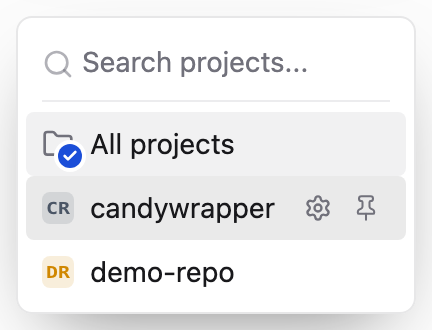
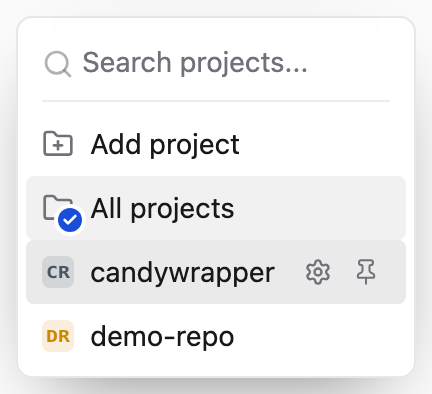
feat(sidebar): folder button picks or adds a project, New starts in the scoped project
5258 turns the project filter into a folder button labelled "Projects" or
"Projects: <names>" whose list leads with Add project, and drops the
header's own Add project button (#33057, Sidebar.tsx:851-858, :3118-3171,
:3232-3242, SidebarThreadHeader.tsx:100). Redesign keeps its Add project
button and filter glyph by the Threads label.

The header New button starts the thread in a project the sidebar is scoped
to, on the viewed thread's copy when it belongs to the group; Shift and
the Boring sidebar skip it (#35185, resolveScopedNewThreadProjectRef,
Sidebar.logic.ts:829-851, Sidebar.tsx:3044-3077). A grouped project's
folder New starts on the viewed thread's machine (#41554,
buildSidebarProjectPickerEntries, sidebarProjectGrouping.ts:220-252).

sidebar-search scope.all and the three sidebar-project-filter references
are regenerated from markup with the Add project row.

diff --git a/Packages/CandyKit/Sources/Features/Sidebar/SidebarView.swift b/Packages/CandyKit/Sources/Features/Sidebar/SidebarView.swift
@@ -89,7 +89,9 @@ public final class SidebarContentView: DSView {
     private let environmentPill = BadgeView("Nightly", variant: .secondary, size: .sm)
     let brand = SidebarBrandView()
     let search = SidebarSearchFieldView()
-    let filterButton = SidebarContentView.headerButton(.listFilter, "Filter threads by project")
+    /// The project scope trigger: T3 5258's folder button "Projects" (Sidebar.tsx:3136-3171, #33057). Redesign keeps
+    /// its filter glyph beside its own Add project button.
+    let filterButton = SidebarContentView.headerButton(.folder, "Projects")
     let addProjectButton = SidebarContentView.headerButton(.folderPlus, "Add project")
     let newThreadButton = SidebarContentView.headerButton(.squarePen, "New thread")
     let settingsButton = SidebarContentView.footerButton(.settings, "Settings")
@@ -282,7 +284,9 @@ public final class SidebarContentView: DSView {
         list.onToggleShelf = { [weak self] in self?.toggleShelf($0) }
         list.onNewProjectThread = { [weak self] key in
             guard let self, let group = SidebarListBuilder.projectScopeGroups(snapshot: self.snapshot).first(where: { $0.key == key }) else { return }
-            self.actions.newThreadInProject(group.representative)
+            // #41554: a grouped project starts on the viewed thread's machine (Sidebar.tsx:1269-1280 at 5258).
+            let viewed = self.state.activeThreadId.flatMap { id in self.snapshot?.threads.first { $0.id == id }?.projectId }
+            self.actions.newThreadInProject(SidebarModel.pickerTarget(group, preferred: viewed))
         }
         // Sidebar.tsx:1194-1221 (3814).
         list.onProjectMenu = { [weak self] key, event, view in
@@ -906,16 +910,21 @@ public final class SidebarContentView: DSView {
             preferredEnvironmentId: state.environments.primaryId))
     }
 
+    /// The scope New starts in: none with the Boring sidebar, whose header button always opens the picker
+    /// (Sidebar.tsx:3045-3050 at 5258).
+    public var newThreadScopedGroups: [SidebarModel.ProjectGroup] { state.boringSidebarEnabled ? [] : scopedGroups }
+
     private var scopedGroup: SidebarModel.ProjectGroup? { scopedGroups.count == 1 ? scopedGroups.first : nil }
 
     func updateScopeTrigger() {
         let group = scopedGroup
         filterMonogram.isHidden = group == nil
         if let group { filterMonogram.projectTitle = group.representative.title; filterMonogram.source = ProjectIconSource(group.representative) }
-        if (filterButton.icon == nil) != (group != nil) { filterButton.icon = group == nil ? .listFilter : nil }
+        let icon: IconName? = group == nil ? scopeIcon : nil
+        if filterButton.icon != icon { filterButton.icon = icon }
         let selected = scopedGroups
         filterButton.isActive = !selected.isEmpty
-        let label = selected.isEmpty ? "Filter threads by project" : "Filter threads by project: " + selected.map(\.label).joined(separator: ", ")
+        let label = selected.isEmpty ? "Projects" : "Projects: " + selected.map(\.label).joined(separator: ", ")
         filterButton.setAccessibilityLabel(label)
         filterButton.setTooltip(label)
         let hasProjects = !(snapshot?.projects.isEmpty ?? true)
@@ -939,6 +948,10 @@ public final class SidebarContentView: DSView {
         }
         view.onSelect = { [weak self] key in
             if let key { self?.toggleProjectScope(key) } else { self?.setProjectScopes([]) }
+        }
+        view.onAddProject = { [weak self] in
+            self?.closeScopePopup()
+            self?.actions.addProject()
         }
         view.onSettings = { [weak self] key in
             self?.closeScopePopup()
@@ -1090,8 +1103,13 @@ public final class SidebarContentView: DSView {
         super.viewDidChangeEffectiveAppearance()
         applyStage() // Dither hides the artwork
         syncDither()
+        updateScopeTrigger()
         needsLayout = true
     }
+
+    /// Redesign's list controls sit by the "Threads" label: Add project and a filter glyph. The default themes follow
+    /// 5258, where the folder button's menu holds Add project.
+    private var scopeIcon: IconName { ThemeRuntime.isDither(dark: effectiveAppearance.isDark) ? .listFilter : .folder }
 
     // MARK: Layout
 
@@ -1131,7 +1149,8 @@ public final class SidebarContentView: DSView {
         let hasProjects = !(snapshot?.projects.isEmpty ?? true)
         let capyHeader = ThemeRuntime.isDither(dark: effectiveAppearance.isDark)
         for b in [newThreadButton, addProjectButton, filterButton] {
-            b.isHidden = b !== newThreadButton && !hasProjects || capyHeader && b === newThreadButton
+            // 5258 moves Add project into the folder button's menu (SidebarThreadHeader.tsx:100, #33057); Redesign keeps it.
+            b.isHidden = b !== newThreadButton && !hasProjects || capyHeader && b === newThreadButton || !capyHeader && b === addProjectButton
             if b.isHidden || capyHeader { continue }
             b.frame = NSRect(x: right - 28, y: rowY + 2, width: 28, height: 28)
             right -= 28

diff --git a/Packages/CandyKit/Tests/FeaturesTests/SidebarProjectFilterTests.swift b/Packages/CandyKit/Tests/FeaturesTests/SidebarProjectFilterTests.swift
@@ -27,9 +27,53 @@ struct SidebarProjectFilterTests {
         #expect(groups.first { $0.label == "old-repo" }?.archived == true)
         #expect(ProjectOrganization.pickable(groups).map(\.label) == ["candywrapper", "demo-repo"])
         let view = SidebarProjectScopeView(groups: groups, selectedKey: nil, minimumWidth: 200, selectedKeys: groups.filter { $0.label == "old-repo" }.map(\.key))
-        #expect(view.items.map(\.label) == ["All projects", "candywrapper", "demo-repo"])
+        #expect(view.items.map(\.label) == ["Add project", "All projects", "candywrapper", "demo-repo"])
         // An archived project's scope reads as all projects.
         #expect(view.selectedKeys.isEmpty)
+    }
+
+    /// 5258 #33057: the folder button's list leads with "Add project", which opens the add flow and never scopes;
+    /// a search drops it with "All projects" (Sidebar.logic.ts:1186-1201, Sidebar.tsx:3118-3120).
+    @Test func addProjectLeadsTheScopeList() {
+        let groups = SidebarListBuilder.projectScopeGroups(snapshot: Self.snapshot())
+        let view = SidebarProjectScopeView(groups: groups, selectedKey: nil, minimumWidth: 200)
+        #expect(view.items[0].isAddProject && !view.items[1].isAddProject)
+        var added = 0, selected: [String?] = []
+        view.onAddProject = { added += 1 }
+        view.onSelect = { selected.append($0) }
+        view.highlighted = 0
+        #expect(view.handleKey(.enter))
+        #expect(added == 1 && selected.isEmpty)
+        view.setQuery("demo")
+        #expect(view.shown.map(\.label) == ["demo-repo"])
+    }
+
+    /// Sidebar.tsx:3136-3171 at 5258: the scope trigger is a folder labelled "Projects", and Add project leaves the
+    /// header for the folder's menu. Redesign keeps its own Add project button.
+    @Test func headerShowsTheProjectsFolder() {
+        let content = SidebarContentView(frame: NSRect(x: 0, y: 0, width: 256, height: 600))
+        content.setSnapshot(Self.snapshot(), animated: false)
+        content.layoutSubtreeIfNeeded()
+        #expect(content.filterButton.icon == .folder && content.filterButton.accessibilityLabel() == "Projects")
+        #expect(content.addProjectButton.isHidden && !content.filterButton.isHidden)
+        var state = content.state
+        state.projectScopeKeys = [SidebarListBuilder.projectScopeGroups(snapshot: Self.snapshot()).first { $0.label == "demo-repo" }!.key]
+        content.state = state
+        content.updateScopeTrigger()
+        #expect(content.filterButton.accessibilityLabel() == "Projects: demo-repo")
+    }
+
+    /// `resolveScopedNewThreadProjectRef` (Sidebar.logic.ts:829-851 at 5258, #35185).
+    @Test func newStartsInTheScopedProject() {
+        let snapshot = Self.snapshot()
+        let groups = SidebarListBuilder.projectScopeGroups(snapshot: snapshot)
+        let demo = groups.first { $0.label == "demo-repo" }!
+        #expect(SidebarModel.scopedNewThreadProject(shift: false, scopedGroups: [demo], viewedProjectId: nil, projects: snapshot.projects)?.id == "p1")
+        #expect(SidebarModel.scopedNewThreadProject(shift: true, scopedGroups: [demo], viewedProjectId: nil, projects: snapshot.projects) == nil)
+        #expect(SidebarModel.scopedNewThreadProject(shift: false, scopedGroups: groups, viewedProjectId: nil, projects: snapshot.projects) == nil)
+        #expect(SidebarModel.scopedNewThreadProject(shift: false, scopedGroups: [], viewedProjectId: nil, projects: snapshot.projects) == nil)
+        // A viewed thread outside the group leaves the group's own project.
+        #expect(SidebarModel.scopedNewThreadProject(shift: false, scopedGroups: [demo], viewedProjectId: "p2", projects: snapshot.projects)?.id == "p1")
     }
 
     @Test func updatePayloadMatchesProjectUpdate() {
@@ -61,9 +105,9 @@ struct SidebarProjectFilterTests {
         var writes: [(String, Bool)] = []
         view.onTogglePin = { writes.append(($0, $1)) }
         let before = view.items.map(\.label)
-        let key = view.items[2].key!
+        let key = view.items[3].key!
         view.togglePin(key)
-        #expect(view.items.map(\.label) == before && view.items[2].pinned)
+        #expect(view.items.map(\.label) == before && view.items[3].pinned)
         #expect(writes.count == 1 && writes[0].0 == key && writes[0].1)
     }
 
@@ -93,8 +137,8 @@ struct SidebarProjectFilterTests {
         let view = SidebarProjectScopeView(groups: groups, selectedKey: nil, minimumWidth: 200)
         var writes = 0
         view.onTogglePin = { _, _ in writes += 1 }
-        view.togglePin(view.items[1].key!)
-        #expect(writes == 0 && !view.items[1].pinned)
+        view.togglePin(view.items[2].key!)
+        #expect(writes == 0 && !view.items[2].pinned)
     }
 
     /// The pin turns to pin-off under the pointer and goes back when the rows rebuild or the popup closes under a

diff --git a/Packages/CandyKit/Sources/Features/Sidebar/SidebarProjectScopeView.swift b/Packages/CandyKit/Sources/Features/Sidebar/SidebarProjectScopeView.swift
@@ -20,6 +20,8 @@ final class SidebarProjectScopeView: DSView, PickerPopupBody {
         var pinned = false
         /// `canPinProjectGroup`: every member's server keeps pins and this connection may change it.
         var canPin = false
+        /// The "Add project" row (`ADD_PROJECT_SCOPE_ITEM_VALUE`, Sidebar.logic.ts:1186 at 5258).
+        var isAddProject = false
     }
 
     struct Badge: Equatable { var machine: String; var description: String }
@@ -34,6 +36,8 @@ final class SidebarProjectScopeView: DSView, PickerPopupBody {
     var highlighted: Int? { didSet { if highlighted != oldValue { rows.forEach { $0.restyle() }; scrollToHighlight() } } }
 
     var onSelect: (@MainActor (String?) -> Void)?
+    /// The sidebar's "Add project" row: close and open the Add project palette (Sidebar.tsx:3118-3120 at 5258).
+    var onAddProject: (@MainActor () -> Void)?
     var onSettings: (@MainActor (String) -> Void)?
     /// A row's pin button or the pin shortcut: the group's key and whether it should now be pinned.
     var onTogglePin: (@MainActor (String, Bool) -> Void)?
@@ -68,7 +72,9 @@ final class SidebarProjectScopeView: DSView, PickerPopupBody {
                  badge: badges ? environments.badge(group).map { Badge(machine: $0.machine, description: $0.description) } : nil,
                  pinned: group.pinned, canPin: canPin(group))
         }
-        items = extra == .allProjects ? [Item(key: nil, label: "All projects")] + projects : projects + [Item(key: nil, label: "Add project")]
+        // 5258 leads the sidebar's list with "Add project" (Sidebar.tsx:851-858, #33057).
+        let add = Item(key: nil, label: "Add project", isAddProject: true)
+        items = extra == .allProjects ? [add, Item(key: nil, label: "All projects")] + projects : projects + [add]
         // `selectedProjectScopeItem` falls back to "All projects" when the key's group is gone; an archived
         // project's scope reads as all projects.
         self.selectedKeys = Set((selectedKeys ?? selectedKey.map { [$0] } ?? []).filter { key in groups.contains { $0.key == key } })
@@ -112,7 +118,8 @@ final class SidebarProjectScopeView: DSView, PickerPopupBody {
     private func reload() {
         rows.forEach { $0.removeFromSuperview() }
         rows = shown.indices.map { i in
-            let row = ScopeRowView(item: shown[i], selected: (shown[i].key.map { selectedKeys.contains($0) } ?? (selectedKeys.isEmpty && extra == .allProjects)),
+            let row = ScopeRowView(item: shown[i], selected: (shown[i].key.map { selectedKeys.contains($0) }
+                                                               ?? (selectedKeys.isEmpty && extra == .allProjects && !shown[i].isAddProject)),
                                    extra: extra)
             row.isHighlighted = { [weak self] in self?.highlighted == i }
             row.onHover = { [weak self] in self?.highlighted = i }
@@ -148,6 +155,7 @@ final class SidebarProjectScopeView: DSView, PickerPopupBody {
     private func choose(_ i: Int) {
         guard shown.indices.contains(i) else { return }
         let key = shown[i].key
+        if extra == .allProjects, shown[i].isAddProject { onAddProject?(); return }
         if extra == .allProjects {
             if let key { if !selectedKeys.insert(key).inserted { selectedKeys.remove(key) } } else { selectedKeys.removeAll() }
             reload()
@@ -264,7 +272,7 @@ final class ScopeRowView: ControlView {
     init(item: SidebarProjectScopeView.Item, selected: Bool, extra: SidebarProjectScopeView.Extra = .allProjects, icon: IconName? = nil) {
         self.item = item
         self.selected = selected
-        folder = IconView(name: icon ?? (extra == .allProjects ? .folder : .folderPlus), size: 16)
+        folder = IconView(name: icon ?? (item.isAddProject ? .folderPlus : .folder), size: 16)
         settings = item.key == nil || extra == .addProject || icon != nil ? nil : ButtonView(nil, icon: .settings, variant: .ghostMuted, size: .iconXs)
         pin = item.key != nil && item.canPin && icon == nil ? ProjectPinSlot(name: item.label, pinned: item.pinned) : nil
         actionsColumn = extra == .allProjects && icon == nil

diff --git a/Packages/CandyKit/Sources/T3Store/SidebarModel.swift b/Packages/CandyKit/Sources/T3Store/SidebarModel.swift
@@ -821,6 +821,28 @@ public enum SidebarModel {
         public var id: String { key }
     }
 
+    /// `resolveScopedNewThreadProjectRef` (Sidebar.logic.ts:829-851 at 5258, #35185): a sidebar scoped to one project
+    /// starts New there, on the viewed thread's copy when it belongs to the group, else on the group's own project.
+    /// Shift, no scope or several scoped projects return nil.
+    public static func scopedNewThreadProject(shift: Bool, scopedGroups: [ProjectGroup], viewedProjectId: ProjectId?,
+                                              projects: [ProjectShell]) -> ProjectShell? {
+        guard !shift, scopedGroups.count == 1, let group = scopedGroups.first else { return nil }
+        if let viewed = viewedProjectId, group.memberProjectIds.contains(viewed),
+           let project = projects.first(where: { $0.id == viewed }) { return project }
+        return group.representative
+    }
+
+    /// `buildSidebarProjectPickerEntries`' `targetProject` (sidebarProjectGrouping.ts:220-252 at 5258): the member the
+    /// viewed thread uses, else a member on its machine, else the group's own project, skipping archived copies.
+    public static func pickerTarget(_ group: ProjectGroup, preferred: ProjectId?) -> ProjectShell {
+        let members = group.members.filter { $0.archivedAt == nil }
+        if let preferred {
+            if let exact = members.first(where: { $0.id == preferred }) { return exact }
+            if let sameMachine = members.first(where: { $0.id.environmentId == preferred.environmentId }) { return sameMachine }
+        }
+        return members.first { $0.id == group.representative.id } ?? members.first ?? group.representative
+    }
+
     /// Port of `normalizeProjectPathForComparison` (packages/shared/src/path.ts:49-55) for POSIX
     /// paths: trim, then drop trailing slashes.
     public static func normalizeProjectPath(_ path: String) -> String {

diff --git a/Packages/CandyKit/Tests/FeaturesTests/SidebarSearchTests.swift b/Packages/CandyKit/Tests/FeaturesTests/SidebarSearchTests.swift
@@ -120,7 +120,7 @@ struct SidebarSearchTests {
         c.clearSearch()
         // A key whose group is gone scopes nothing.
         c.setProjectScope("gone")
-        #expect(keys(c).contains("thread:r3") && c.filterButton.icon == .listFilter)
+        #expect(keys(c).contains("thread:r3") && c.filterButton.icon == .folder)
         // A scoped project without threads.
         let empty = content(SidebarPreview.snapshot(projects: [SidebarPreview.project("p1", "demo-repo"), SidebarPreview.project("p9", "lonely")],
                                                     threads: [SidebarPreview.thread("x", "X", project: "p1", kind: .read, minutesAgo: 2)]))
@@ -178,7 +178,7 @@ struct SidebarSearchTests {
     @Test func scopePopupFiltersAndPicks() {
         let groups = SidebarListBuilder.projectScopeGroups(snapshot: SidebarPreview.richSnapshot())
         let view = SidebarProjectScopeView(groups: groups, selectedKey: nil, minimumWidth: 150)
-        #expect(view.shown.map(\.label) == ["All projects", "candywrapper", "demo-repo", "t3code"])
+        #expect(view.shown.map(\.label) == ["Add project", "All projects", "candywrapper", "demo-repo", "t3code"])
         var picked: String?? = .none
         view.onSelect = { picked = .some($0) }
         view.setQuery("REPO")
@@ -188,8 +188,8 @@ struct SidebarSearchTests {
         view.setQuery("nothing")
         #expect(view.shown.isEmpty && view.highlighted == nil)
         view.setQuery("")
-        #expect(view.shown.count == 4 && view.highlighted == nil)
-        #expect(view.handleKey(.up) && view.highlighted == 3)
+        #expect(view.shown.count == 5 && view.highlighted == nil)
+        #expect(view.handleKey(.up) && view.highlighted == 4)
         #expect(view.naturalSize.width >= 148 && view.naturalSize.width <= 286)
     }
 

diff --git a/App/Sources/PaletteCommands.swift b/App/Sources/PaletteCommands.swift
@@ -942,7 +942,8 @@ final class PaletteCommands {
         threads.newThread(in: project)
     }
 
-    /// The sidebar's new-thread button (`handleNewThreadClick`): one project or Shift creates at once,
+    /// The sidebar's new-thread button (`handleNewThreadClick`): a sidebar scoped to one project starts there unless
+    /// Shift is held (#35185); otherwise one project or Shift creates at once,
     /// several open "New thread in..." (`openCommandPalette({open: "new-thread-in"})`).
     /// Dither skips the palette and opens a draft with no project, picked later from the project chip (Capy's).
     /// `opened` runs once the draft shows; Dither's scratch draft opens a moment later, after `projects.ensureScratch`.
@@ -952,6 +953,12 @@ final class PaletteCommands {
             return
         }
         defer { opened?() }
+        if let project = SidebarModel.scopedNewThreadProject(shift: shift, scopedGroups: sidebar?.newThreadScopedGroups ?? [],
+                                                             viewedProjectId: threads.composer.activeProjectId,
+                                                             projects: snapshot?.projects ?? []) {
+            newThread(in: project)
+            return
+        }
         if shift || projectGroups().count <= 1 { newThreadFromContext(); return }
         if let controller = overlay?.controller, let page = newThreadInPage() { controller.setMode(nil); controller.push(page); return }
         open(newThreadIn: true)

diff --git a/scripts/gen-sidebar-project-filter-spec.py b/scripts/gen-sidebar-project-filter-spec.py
@@ -1,5 +1,5 @@
 """Writes design/component-reference/sidebar-project-filter.json for scripts/component-reference: the sidebar's project
-filter popup at Nightly 4928, after pinned projects (#26154) and the aligned row actions (#29639, #29704). Each project
+filter popup at Nightly 4928 with 5258's leading Add project row (#33057), after pinned projects (#26154) and the aligned row actions (#29639, #29704). Each project
 row is the favicon, the label, then `ProjectRowActions`: the settings button, visible on the highlighted row, and the
 pin column, which holds `ProjectPinButton` or a `size-6` stand-in (Sidebar.tsx:3120-3190, ProjectComboboxRow.tsx,
 ProjectPinButton.tsx:24-73). "All projects" ends in the same stand-in. The popup frame, rows and search field come
@@ -19,6 +19,7 @@ exec(load("gen-sidebar-search-spec.py", "cases = []"), g)
 r = {"__file__": os.path.join(ROOT, "scripts/gen-run-on-spec.py")}
 exec(load("gen-run-on-spec.py", "def machine"), r)
 svg, favicon, ITEM, FOLDER, SETTINGS, scope_popup = g["svg"], g["favicon"], g["ITEM"], g["FOLDER"], g["SETTINGS"], g["scope_popup"]
+add_project_item = g["add_project_item"]
 lucide = r["lucide"]
 # button.tsx base + ghost-muted + icon-xs, without the old row's `ml-auto`.
 ICON_BUTTON = g["GHOST_MUTED_ICON_XS"].removesuffix(" ml-auto")
@@ -50,14 +51,14 @@ def row(label, project=None, highlighted=False, pinned=False, can_pin=True, sele
 
 CASES = [
     # Pinned first, then the rest; the highlighted unpinned row shows its settings and its pin.
-    ("pinned", [row("All projects", selected=True), row("candywrapper", "candywrapper", pinned=True), row("demo-repo", "demo-repo", highlighted=True)],
-     {"pinned": "candywrapper", "highlighted": "2"}),
+    ("pinned", [add_project_item(), row("All projects", selected=True), row("candywrapper", "candywrapper", pinned=True), row("demo-repo", "demo-repo", highlighted=True)],
+     {"pinned": "candywrapper", "highlighted": "3"}),
     # The pinned row highlighted: settings and the pin together.
-    ("pinned-highlighted", [row("All projects", selected=True), row("candywrapper", "candywrapper", highlighted=True, pinned=True), row("demo-repo", "demo-repo")],
-     {"pinned": "candywrapper", "highlighted": "1"}),
+    ("pinned-highlighted", [add_project_item(), row("All projects", selected=True), row("candywrapper", "candywrapper", highlighted=True, pinned=True), row("demo-repo", "demo-repo")],
+     {"pinned": "candywrapper", "highlighted": "2"}),
     # A server without `projectOrganization`: no pins, the column keeps its room.
-    ("no-pins", [row("All projects", selected=True), row("demo-repo", "demo-repo", highlighted=True, can_pin=False), row("candywrapper", "candywrapper", can_pin=False)],
-     {"highlighted": "1", "canPin": "no"}),
+    ("no-pins", [add_project_item(), row("All projects", selected=True), row("demo-repo", "demo-repo", highlighted=True, can_pin=False), row("candywrapper", "candywrapper", can_pin=False)],
+     {"highlighted": "2", "canPin": "no"}),
 ]
 spec = {"component": "sidebar-project-filter", "source": "apps/web/src/components/Sidebar.tsx",
         "cases": [{"name": n, "html": scope_popup("", rows), "wrapperStyle": "display:inline-block", "native": native} for n, rows, native in CASES],

diff --git a/scripts/gen-sidebar-search-spec.py b/scripts/gen-sidebar-search-spec.py
@@ -114,6 +114,17 @@ def scope_item(label, project=None, selected=False, highlighted=False):
             '<div class="flex min-w-0 flex-1 items-center gap-2 [&_svg:not([class*=\'text-\'])]:text-muted-foreground" data-slot="combobox-item-content">'
             f'{icon}<span class="min-w-0 truncate text-sm">{label}</span>{actions}</div></div>')
 
+# 5258 leads the list with "Add project" (Sidebar.tsx:3232-3242, #33057): a plain `hideIndicator` item with the
+# folder-plus icon and a `size-7 sm:size-6` spacer that keeps it as tall as the project rows.
+FOLDER_PLUS = '<path d="M12 10v6"></path><path d="M9 13h6"></path>' + FOLDER
+
+def add_project_item(highlighted=False):
+    attrs = ' data-highlighted=""' if highlighted else ""
+    return (f'<div role="option" data-slot="combobox-item" class="{ITEM}"{attrs}>'
+            '<div class="flex min-w-0 flex-1 items-center gap-2 [&_svg:not([class*=\'text-\'])]:text-muted-foreground" data-slot="combobox-item-content">'
+            f'{svg(FOLDER_PLUS, "size-4 shrink-0")}<span class="min-w-0 truncate text-sm">Add project</span>'
+            '<span class="ml-auto size-7 shrink-0 sm:size-6"></span></div></div>')
+
 def scope_popup(query, items):
     search = ('<div class="min-w-0 shrink-0 px-3 pt-2.5"><div class="relative -translate-y-px border-b border-border/70 pb-1.5 transition-colors focus-within:border-ring">'
               f'{svg(SEARCH, "pointer-events-none absolute top-1.5 left-0 size-4 shrink-0 text-muted-foreground/55")}'
@@ -146,9 +157,9 @@ add("draft.active", draft_row("demo-repo", "Add a dark mode toggle", active=True
     {"kind": "draft", "project": "demo-repo", "preview": "Add a dark mode toggle", "active": "true"})
 add("status.search", status("No threads found", True), {"kind": "status", "text": "No threads found", "search": "true"})
 add("status.empty", status("No threads in demo-repo yet", False), {"kind": "status", "text": "No threads in demo-repo yet"})
-add("scope.all", scope_popup("", [scope_item("All projects", selected=True), scope_item("demo-repo", "demo-repo", highlighted=True),
+add("scope.all", scope_popup("", [add_project_item(), scope_item("All projects", selected=True), scope_item("demo-repo", "demo-repo", highlighted=True),
                                   scope_item("candywrapper", "candywrapper")]),
-    {"kind": "scope", "query": "", "selected": "", "highlighted": "1"}, box=False)
+    {"kind": "scope", "query": "", "selected": "", "highlighted": "2"}, box=False)
 add("scope.empty", scope_popup("zzz", []), {"kind": "scope", "query": "zzz", "selected": ""}, box=False)
 
 root = os.path.dirname(os.path.dirname(os.path.abspath(__file__)))
